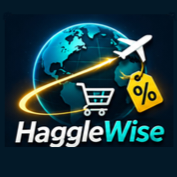
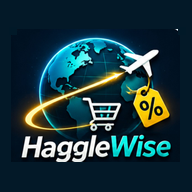
Add files via upload

diff --git a/index.html b/index.html
@@ -1,6 +1,16 @@
-<!doctype html><html lang="en"><head><meta charset="utf-8"><meta name="viewport" content="width=device-width,initial-scale=1,viewport-fit=cover"><meta name="theme-color" content="#123b61"><title>HaggleWise | Know your price. Make your deal.</title><meta name="description" content="HaggleWise helps you compare shop prices, haggle with confidence and convert currencies worldwide, even offline."><meta property="og:type" content="website"><meta property="og:title" content="HaggleWise"><meta property="og:description" content="Compare holiday shop prices, haggle with confidence and see what you spend at home. Works offline."><meta property="og:image" content="https://chriselliott369.github.io/HaggleWise/icon-512.png"><meta property="og:url" content="https://chriselliott369.github.io/HaggleWise/"><meta name="twitter:card" content="summary"><meta name="twitter:title" content="HaggleWise"><meta name="twitter:image" content="https://chriselliott369.github.io/HaggleWise/icon-512.png"><link rel="manifest" href="./manifest.webmanifest?v=1-0-9"><link rel="icon" href="./icon-192.png?v=1-0-9"><style>
+<!doctype html><html lang="en"><head><meta charset="utf-8"><meta name="viewport" content="width=device-width,initial-scale=1,viewport-fit=cover"><meta name="theme-color" content="#061b34"><title>HaggleWise | Know your price. Make your deal.</title><meta name="description" content="HaggleWise helps you compare shop prices, haggle with confidence and convert currencies worldwide, even offline."><meta property="og:type" content="website"><meta property="og:title" content="HaggleWise"><meta property="og:description" content="Compare holiday shop prices, haggle with confidence and see what you spend at home. Works offline."><meta property="og:image" content="https://chriselliott369.github.io/HaggleWise/icon-512.png"><meta property="og:url" content="https://chriselliott369.github.io/HaggleWise/"><meta name="twitter:card" content="summary"><meta name="twitter:title" content="HaggleWise"><meta name="twitter:image" content="https://chriselliott369.github.io/HaggleWise/icon-512.png"><link rel="manifest" href="./manifest.webmanifest?v=1-2-0"><link rel="icon" href="./icon-192.png?v=1-2-0"><style>
 :root{font-family:system-ui,-apple-system,Segoe UI,sans-serif;color:#17324d;background:#f2f7fc}*{box-sizing:border-box}body{margin:0}.app{max-width:560px;margin:auto;padding:16px 15px 36px}header{background:linear-gradient(125deg,#123b61,#087b8a);color:white;border-radius:22px;padding:20px;box-shadow:0 8px 22px #123b6122}.head{display:flex;justify-content:space-between;align-items:center;gap:10px}h1{font-size:1.35rem;margin:0 0 4px}header p{margin:0;opacity:.9;font-size:.85rem}button,input{font:inherit}button{cursor:pointer;touch-action:manipulation}#share{background:#ffffff2b;color:white;border:1px solid #ffffff55;border-radius:12px;padding:10px 13px;font-weight:700;white-space:nowrap}.panel{background:white;border-radius:20px;margin-top:15px;padding:17px;box-shadow:0 4px 16px #1b46600c}.intro{font-size:.84rem;color:#567187;line-height:1.5;margin:0 0 12px}.currency-tabs{display:grid;grid-template-columns:repeat(3,minmax(0,1fr));gap:7px}.tab{border:2px solid transparent;background:#edf4f9;border-radius:14px;padding:9px 3px 10px;min-width:0;text-align:center}.tab.active{background:#dff7f0;border-color:#0d8d7d}.tab .role{display:block;font-size:.7rem;font-weight:800;line-height:1.3;min-height:28px}.tab .code{display:block;font-size:.93rem;font-weight:800;margin-top:3px}.choose{display:block;width:100%;border:0;background:#ffffffb5;border-radius:8px;padding:5px 2px;margin-top:6px;color:#176b75;font-size:.72rem;font-weight:700}.entry{background:#f1fbf8;border:1px solid #b4dcd2;border-radius:15px;padding:13px;margin-top:13px}.entry .eyebrow{font-size:.78rem;font-weight:800}.entry .big{font-size:2.1rem;font-weight:800;margin:7px 0;overflow-wrap:anywhere;font-variant-numeric:tabular-nums}.entry .hint{font-size:.77rem;color:#58758a}.result{display:grid;grid-template-columns:1fr 1fr;gap:9px;margin-top:11px}.result>div{border:1px solid #dce9f1;border-radius:12px;padding:10px;min-width:0}.result .name{font-size:.74rem;font-weight:750;color:#496a7d}.result .value{font-size:1.15rem;font-weight:800;overflow-wrap:anywhere;margin-top:5px}.keypad{display:grid;grid-template-columns:repeat(3,1fr);gap:8px;margin-top:13px}.keypad button{background:#eaf2f8;color:#17324d;border:0;border-radius:12px;padding:12px;min-height:48px;font-size:1.35rem;font-weight:750}.keypad .clear{background:#fff3d8;font-size:.94rem}.keypad .delete{background:#ffece7;font-size:.94rem}.small{font-size:.8rem;color:#567187;line-height:1.5}.actions{display:flex;gap:8px;flex-wrap:wrap}.actions button{border:0;border-radius:11px;background:#e5f4f2;color:#125a57;padding:11px 13px;font-weight:750}.actions button:disabled{opacity:.6}.rates summary{font-weight:750;cursor:pointer;padding:3px 0}.status{font-size:.81rem;color:#496a7d;line-height:1.5;margin:10px 0}.warn{background:#fff5df;color:#85551d;padding:12px;border-radius:11px;font-size:.8rem;line-height:1.45}.foot{text-align:center;font-size:.77rem;color:#60798b;margin:19px 0}.rate-row{display:grid;grid-template-columns:1fr 1fr;gap:10px;align-items:center;margin:10px 0}.rate-row input{width:100%;border:1px solid #a8c0d0;border-radius:10px;padding:10px}.rate-row label{font-size:.86rem;font-weight:650}.tiny{font-size:.75rem;color:#647f8e;line-height:1.45}.source a{color:#087b8a}dialog{width:min(94vw,430px);max-height:82vh;border:0;border-radius:18px;padding:16px;box-shadow:0 14px 45px #122c4655}dialog::backdrop{background:#0c253b99}.picker-head{display:flex;justify-content:space-between;align-items:center}.picker-head button{border:0;background:#eaf2f8;border-radius:8px;padding:8px 12px}#currencySearch{width:100%;border:1px solid #abc7d5;border-radius:10px;padding:12px;margin:12px 0;font-size:1rem}.currency-list{max-height:55vh;overflow:auto}.currency-list button{width:100%;text-align:left;padding:12px 8px;background:white;border:0;border-bottom:1px solid #e1eaf0;font-size:.94rem}.currency-list button:focus{background:#e5f4f2}
-.brand{display:flex;align-items:center;gap:10px;min-width:0}.brand-icon{width:64px;height:64px;object-fit:contain;border-radius:14px;flex-shrink:0}.brand h1{font-size:1.5rem;letter-spacing:-.03em}.brand p{font-size:.74rem;line-height:1.3}.head{align-items:center}#share{padding:10px 9px;font-size:.82rem}@media(max-width:370px){.brand-icon{width:52px;height:52px}.brand h1{font-size:1.25rem}.brand p{font-size:.68rem}} </style></head><body><main class="app"><header><div class="head"><div><div class="brand"><img class="brand-icon" src="./header-icon.png?v=1-0-9" alt="HaggleWise globe, plane, shopping trolley and price tag logo"><div><h1>HaggleWise</h1><p>Know your price. Make your deal.</p></div></div></div><button id="share" type="button">↗ Share</button></div></header>
+.brand{display:flex;align-items:center;gap:10px;min-width:0}.brand-icon{width:64px;height:64px;object-fit:contain;border-radius:14px;flex-shrink:0}.brand h1{font-size:1.5rem;letter-spacing:-.03em}.brand p{font-size:.74rem;line-height:1.3}.head{align-items:center}#share{padding:10px 9px;font-size:.82rem}@media(max-width:370px){.brand-icon{width:52px;height:52px}.brand h1{font-size:1.25rem}.brand p{font-size:.68rem}} </style><style>
+:root{background:#041e34}
+html{min-height:100%;background:#041e34}
+body{min-height:100vh;background:linear-gradient(155deg,#061b34 0%,#06415d 48%,#087f85 100%);background-attachment:fixed}
+.app{max-width:560px}
+.hero-header{position:relative;display:flex;align-items:center;justify-content:flex-start;overflow:hidden;min-height:116px;padding:10px 7px 10px 0;border-radius:22px;background:linear-gradient(110deg,#00172c,#087f87);box-shadow:0 9px 24px #00162666}
+.hero-art{display:block;width:82%;height:auto;max-height:180px;object-fit:contain;object-position:left center}
+.hero-header #share{position:absolute;right:3%;top:50%;transform:translateY(-50%);z-index:2;background:linear-gradient(135deg,#086177,#008d9a);border:1.5px solid #85eafa;color:white;border-radius:14px;padding:11px 10px;box-shadow:0 0 9px #00e4f455;font-size:.83rem}
+.foot{color:#e4f7f9}
+@media(max-width:390px){.hero-header{min-height:94px}.hero-art{width:82%}.hero-header #share{font-size:.72rem;padding:8px 7px;right:2%}}
+</style></head><body><main class="app"><header class="hero-header"><img class="hero-art" src="./header-art.png" alt="HaggleWise. Know your price. Make your deal. Glowing globe, plane, trolley and discount tag"><button id="share" type="button" aria-label="Share HaggleWise">↗ Share</button></header>
 <section class="panel">
 <p class="intro">Choose what you want to enter below: the shop price, what you'll pay, or your budget at home. The other amounts update automatically.</p>
 <div class="currency-tabs" id="tabs"></div>
@@ -11,7 +21,7 @@
 </section>
 <dialog id="picker"><div class="picker-head"><strong>Choose a currency</strong><button id="closePicker" type="button">Close ✕</button></div><input id="currencySearch" placeholder="Search country, currency or code" autocomplete="off" aria-label="Search currencies"><div id="currencyList" class="currency-list"></div></dialog>
 <section class="panel rates"><details><summary>⚙ Exchange rates and settings</summary><p class="small">Reference market rates refresh when you open the app online. You can also refresh manually or enter your own rates. Manual rates may be replaced on the next successful automatic refresh.</p><div id="manualRates"></div><div class="actions"><button type="button" id="saveRates">Save manual rates</button><button type="button" id="liveRates">🔄 Refresh live rates</button></div><p id="liveStatus" class="status" role="status" aria-live="polite"></p><p id="rateStatus" class="status" role="status"></p></details><p id="lastRefresh" class="status">🕒 Last successful refresh: not yet recorded</p><p id="marketDate" class="status">📅 Market date: not yet recorded</p>
-<p class="status source">📡 Rate source: <a href="https://frankfurter.dev/" target="_blank" rel="noopener noreferrer">Frankfurter</a> (reference exchange rates). Manual changes are labelled separately.</p><p class="warn">📌 Market rates are estimates, not guaranteed shop quotes. Shops, cash exchanges and cards may use different rates or charge fees.</p></section><p class="foot">Works offline with your saved rates. No account needed.</p><p class="foot" style="font-size:11px;opacity:.65;margin-top:6px">HaggleWise · v1.0.9</p></main>
+<p class="status source">📡 Rate source: <a href="https://frankfurter.dev/" target="_blank" rel="noopener noreferrer">Frankfurter</a> (reference exchange rates). Manual changes are labelled separately.</p><p class="warn">📌 Market rates are estimates, not guaranteed shop quotes. Shops, cash exchanges and cards may use different rates or charge fees.</p></section><p class="foot">Works offline with your saved rates. No account needed.</p><p class="foot" style="font-size:11px;opacity:.65;margin-top:6px">HaggleWise · v1.2.0</p></main>
 <script>
 (()=>{'use strict';const $=id=>document.getElementById(id);const KEY='holidayV6',RATEKEY='holidayRatesV5',TIMEKEY='turkeyLastLiveRefreshV4';const fallback={GBP:1,EUR:1.197,TRY:66.5};const popular=['EUR','TRY','GBP','USD','AED','AUD','BRL','CAD','CHF','CNY','CZK','DKK','EGP','HKD','HUF','IDR','ILS','INR','ISK','JPY','KRW','MAD','MXN','MYR','NOK','NZD','PHP','PLN','RON','SAR','SEK','SGD','THB','TND','ZAR'];const flags={EUR:'🇪🇺',TRY:'🇹🇷',GBP:'🇬🇧',USD:'🇺🇸',AED:'🇦🇪',AUD:'🇦🇺',BRL:'🇧🇷',CAD:'🇨🇦',CHF:'🇨🇭',CNY:'🇨🇳',CZK:'🇨🇿',DKK:'🇩🇰',EGP:'🇪🇬',HKD:'🇭🇰',HUF:'🇭🇺',IDR:'🇮🇩',ILS:'🇮🇱',INR:'🇮🇳',ISK:'🇮🇸',JPY:'🇯🇵',KRW:'🇰🇷',MAD:'🇲🇦',MXN:'🇲🇽',MYR:'🇲🇾',NOK:'🇳🇴',NZD:'🇳🇿',PHP:'🇵🇭',PLN:'🇵🇱',RON:'🇷🇴',SAR:'🇸🇦',SEK:'🇸🇪',SGD:'🇸🇬',THB:'🇹🇭',TND:'🇹🇳',ZAR:'🇿🇦'};
 function load(k){try{return JSON.parse(localStorage.getItem(k))}catch(e){return null}}function store(k,v){try{localStorage.setItem(k,JSON.stringify(v))}catch(e){}}let rates={...fallback,...(load(RATEKEY)||{})};rates.GBP=1;let state={codes:['EUR','TRY','GBP'],active:0,shop:'',pay:'',edited:false,homeDraft:''};const old=load('holidayV5');if(old?.codes?.length===3){state.codes=old.codes;state.shop=old.values?.[0]||'';state.pay=old.mode==='haggle'&&old.haggleEdited?old.values?.[1]||'':'';state.edited=old.mode==='haggle'&&!!old.haggleEdited}state={...state,...(load(KEY)||{})};if(!Array.isArray(state.codes)||state.codes.length!==3)state.codes=['EUR','TRY','GBP'];if(![0,1,2].includes(state.active))state.active=0;let rateMode='live';function save(){store(KEY,state)}function rate(c){return Number(rates[c])>0?Number(rates[c]):null}function conv(n,a,b){const x=rate(a),y=rate(b);return x&&y?n/x*y:null}function num(s){return Number(s)||0}function fmt(n){return n==null?'—':new Intl.NumberFormat(undefined,{maximumFractionDigits:2,minimumFractionDigits:2}).format(n)}function str(n){return n==null?'':String(Math.round((n+Number.EPSILON)*100)/100)}function sym(c){try{return new Intl.NumberFormat('en',{style:'currency',currency:c,currencyDisplay:'narrowSymbol'}).formatToParts(0).find(x=>x.type==='currency')?.value||c}catch(e){return c}}function cname(c){try{return new Intl.DisplayNames(['en'],{type:'currency'}).of(c)||c}catch(e){return c}}function flag(c){return flags[c]||'🌐'}function amount(i){if(i===0)return state.shop;if(i===1)return state.edited?state.pay:str(conv(num(state.shop),state.codes[0],state.codes[1]));return str(conv(num(amount(1)),state.codes[1],state.codes[2]))}function draw(){const labels=['SHOP PRICE','YOU PAY','COST AT HOME'];$('tabs').innerHTML=state.codes.map((c,i)=>'<div class="tab '+(i===state.active?'active':'')+'"><button type="button" data-tab="'+i+'" style="width:100%;border:0;background:none;color:inherit;padding:0"><span class="role">'+labels[i]+'</span><span class="code">'+flag(c)+' '+c+'</span></button><button type="button" class="choose" data-choose="'+i+'">Change ▾</button></div>').join('');document.querySelectorAll('[data-tab]').forEach(el=>el.onclick=()=>{state.active=Number(el.dataset.tab);state.homeDraft=state.active===2?amount(2):'';save();draw()});document.querySelectorAll('[data-choose]').forEach(el=>el.onclick=()=>openPicker(Number(el.dataset.choose)));const i=state.active;$('entryLabel').textContent=labels[i]+' · '+state.codes[i];$('entryAmount').textContent=sym(state.codes[i])+' '+(amount(i)||'0');$('entryHint').textContent=i===0?'Advertised shop price':i===1?(state.edited?'Your negotiated payment':'Estimated payment. Enter a different amount to haggle.'):'Equivalent home cost. Enter a home budget to work backwards.';$('results').innerHTML=[0,1,2].filter(j=>j!==i).map(j=>'<div><div class="name">'+labels[j]+' · '+flag(state.codes[j])+' '+state.codes[j]+'</div><div class="value">'+sym(state.codes[j])+' '+fmt(num(amount(j)))+'</div></div>').join('');save()}

diff --git a/sw.js b/sw.js
@@ -1,1 +1,1 @@
-const CACHE='hagglewise-v1-0-9';const ASSETS=['./','./index.html','./manifest.webmanifest','./icon-192.png','./icon-512.png','./header-icon.png'];self.addEventListener('install',event=>{event.waitUntil(caches.open(CACHE).then(cache=>cache.addAll(ASSETS)).then(()=>self.skipWaiting()))});self.addEventListener('activate',event=>{event.waitUntil(Promise.all([caches.keys().then(keys=>Promise.all(keys.filter(key=>key!==CACHE).map(key=>caches.delete(key)))),self.clients.claim()]))});self.addEventListener('fetch',event=>{const req=event.request;if(req.method!=='GET'||new URL(req.url).origin!==self.location.origin)return;if(req.mode==='navigate'){event.respondWith(fetch(req).then(res=>{if(res.ok){const copy=res.clone();caches.open(CACHE).then(cache=>cache.put('./index.html',copy))}return res}).catch(()=>caches.match('./index.html')));return}event.respondWith(caches.match(req).then(cached=>cached||fetch(req)))});
+const CACHE='hagglewise-v1-2-0';const ASSETS=['./','./index.html','./manifest.webmanifest','./icon-192.png','./icon-512.png','./header-art.png'];self.addEventListener('install',event=>{event.waitUntil(caches.open(CACHE).then(cache=>cache.addAll(ASSETS)).then(()=>self.skipWaiting()))});self.addEventListener('activate',event=>{event.waitUntil(Promise.all([caches.keys().then(keys=>Promise.all(keys.filter(key=>key!==CACHE).map(key=>caches.delete(key)))),self.clients.claim()]))});self.addEventListener('fetch',event=>{const req=event.request;if(req.method!=='GET'||new URL(req.url).origin!==self.location.origin)return;if(req.mode==='navigate'){event.respondWith(fetch(req).then(res=>{if(res.ok){const copy=res.clone();caches.open(CACHE).then(cache=>cache.put('./index.html',copy))}return res}).catch(()=>caches.match('./index.html')));return}event.respondWith(caches.match(req).then(cached=>cached||fetch(req)))});
